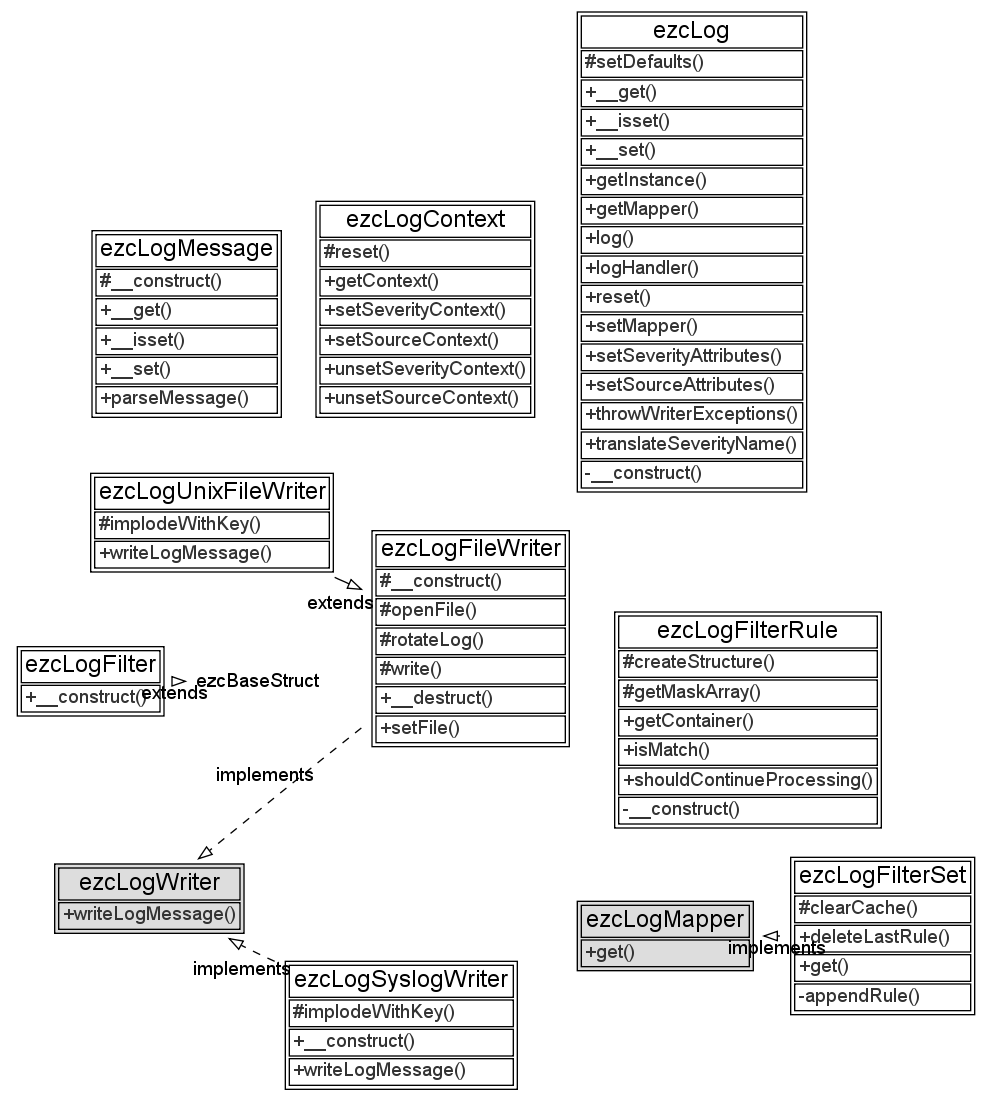
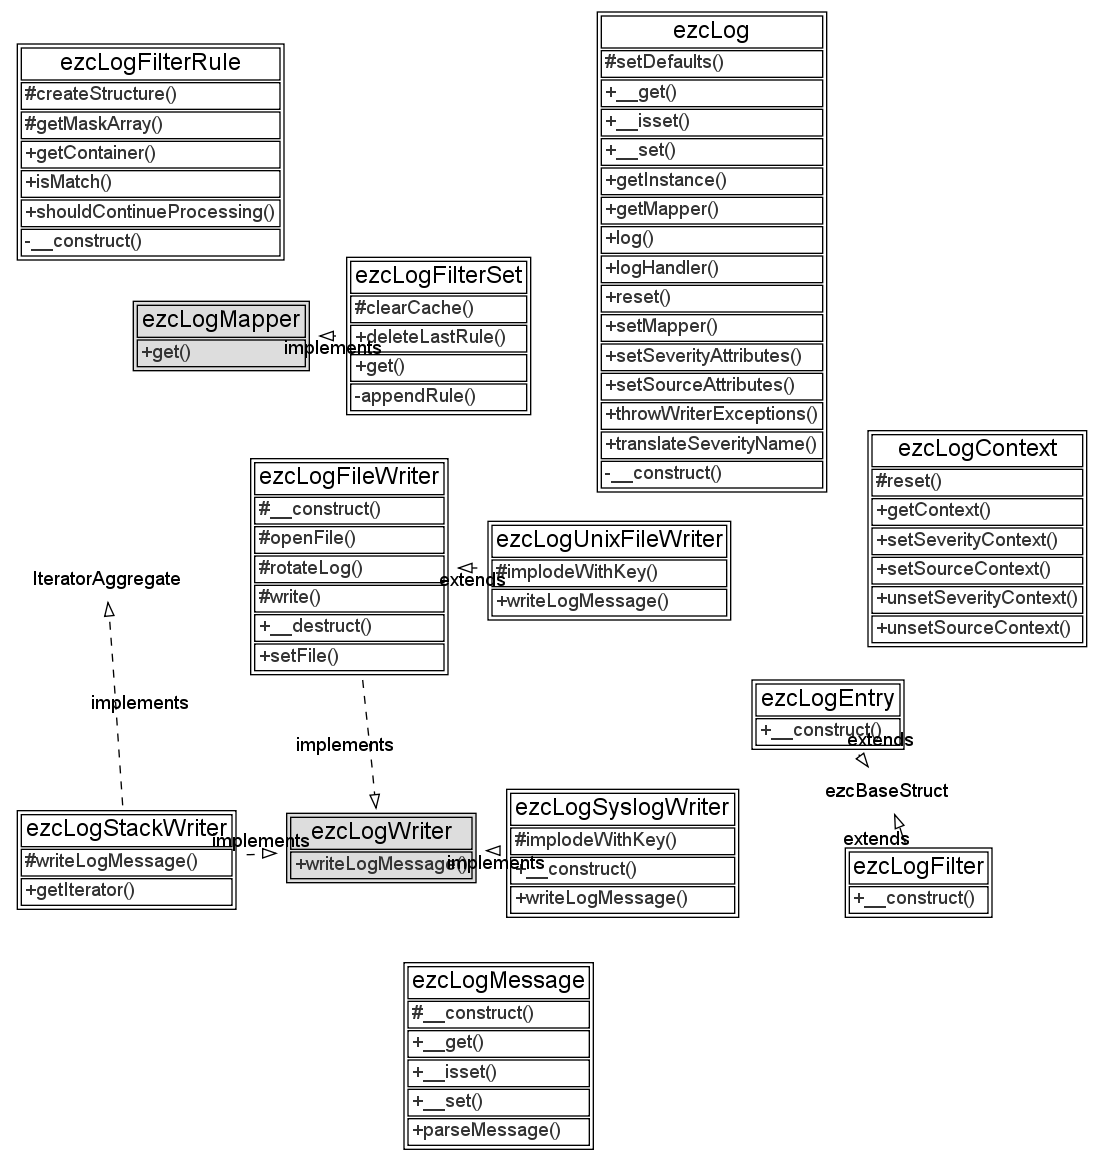
- Implemented feature #14104: Stack writer to store log messages in memory.   (Based on a patch by Thomas Koch)
git-svn-id: https://svn.apache.org/repos/asf/incubator/zetacomponents/trunk@977337 13f79535-47bb-0310-9956-ffa450edef68

Changed region(s): [[0.0, 0.0, 1.0, 1.0]]

diff --git a/EventLog/tests/writers/writer_stack_test.php b/EventLog/tests/writers/writer_stack_test.php
@@ -1,0 +1,88 @@
+<?php
+/**
+ * @copyright Copyright (C) 2005-2009 eZ systems as. All rights reserved.
+ * @license http://ez.no/licenses/new_bsd New BSD License
+ * @version //autogentag//
+ * @filesource
+ * @package EventLog
+ * @subpackage Tests
+ */
+
+/**
+ * @package EventLog
+ * @subpackage Tests
+ */
+class ezcLogStackWriterTest extends ezcTestCase
+{
+    protected $writer;
+
+    protected $messages = array( 
+        array(
+            'message' => 'Alien alert',
+            'severity' => 'critical',
+            'source' => 'UFO report',
+            'category' => 'fake warning',
+            'optional' => array( 1, 2, 3 )
+        ),
+        array(
+            'message' => 'Alien greeting',
+            'severity' => 'uncritical',
+            'source' => 'Alien News',
+            'category' => 'real warning',
+            'optional' => 'hi'
+        ),
+    );
+
+    protected function setUp()
+    {
+        $this->writer = new ezcLogStackWriter;
+    }
+
+    public function testWriteOneLogMessage()
+    {
+        $m = $this->messages[0];
+
+        $this->writer->writeLogMessage( $m['message'], $m['severity'], $m['source'], $m['category'], $m['optional']);
+
+        foreach ( $this->writer as $entry )
+        {
+            $this->assertEquals( $entry->message, $m['message'] );
+            $this->assertEquals( $entry->source, $m['source'] );
+            $this->assertEquals( $entry->severity, $m['severity'] );
+            $this->assertEquals( $entry->category, $m['category'] );
+            $this->assertEquals( $entry->optional, $m['optional'] );
+
+            return;
+        }
+        // should return in the foreach
+        $this->fail();
+    }
+
+    public function testWriteMultipleLogMessages()
+    {
+        foreach ( $this->messages as $m )
+        {
+            $this->writer->writeLogMessage( $m['message'], $m['severity'], $m['source'], $m['category'], $m['optional']);
+        }
+
+        $i = 0;
+        foreach ( $this->writer as $entry )
+        {
+            $m = $this->messages[$i];
+            ++$i;
+
+            $this->assertEquals( $entry->message, $m['message'] );
+            $this->assertEquals( $entry->source, $m['source'] );
+            $this->assertEquals( $entry->severity, $m['severity'] );
+            $this->assertEquals( $entry->category, $m['category'] );
+            $this->assertEquals( $entry->optional, $m['optional'] );
+        }
+        $this->assertEquals( count( $this->messages ), $i );
+    }
+
+    public static function suite()
+    {
+        return new PHPUnit_Framework_TestSuite(__CLASS__);
+    }
+}
+?>

diff --git a/EventLog/src/structs/log_entry.php b/EventLog/src/structs/log_entry.php
@@ -1,0 +1,106 @@
+<?php
+/**
+ * @copyright Copyright (C) 2005-2009 eZ systems as. All rights reserved.
+ * @license http://ez.no/licenses/new_bsd New BSD License
+ * @version //autogentag//
+ * @filesource
+ * @package EventLog
+ */
+
+/**
+ * File containing the ezcLogEntry class.
+ *
+ * The ezcLogEntry class provides a structure to represent a log entry with all
+ * data passed to ezcLog::log().
+ *
+ * This class is used for entries hold by the ezcLogStackWriter.
+ *
+ * @package EventLog
+ * @version //autogentag//
+ */
+class ezcLogEntry extends ezcBaseStruct
+{
+    /**
+     * The textual log message.
+     *
+     * @var string
+     */
+    public $message;
+
+    /**
+     * Severity of the log message.
+     *
+     * @var int
+     */
+    public $severity;
+
+    /**
+     * The source of the log message.
+     *
+     * @var string
+     */
+    public $source;
+
+    /**
+     * The category of the log message.
+     *
+     * @var string
+     */
+    public $category;
+
+    /**
+     * Optional informations
+     *
+     * @var array
+     */
+    public $optional;
+
+    /**
+     * The timestamp of the moment when this object was created
+     *
+     * @var int
+     */
+    public $timestamp;
+
+    /**
+     * Constructs a new ezcLogEntry.
+     *
+     * @param string $message
+     * @param int $severity
+     * @param string $source
+     * @param string $category
+     * @param array $optional
+     * @param int $timestamp
+     */
+    public function __construct( $message = '', $severity = 0, 
+        $source = '', $category = '', $optional = array(), $timestamp = null )
+    {
+        $this->message = $message;
+        $this->severity = $severity;
+        $this->source = $source;
+        $this->category = $category;
+        $this->optional = $optional;
+        $this->timestamp = $timestamp === null ? time() : $timestamp;
+    }
+
+    /**
+     * Returns a new instance of this class with the data specified by $array.
+     *
+     * $array contains all the data members of this class in the form:
+     * array('member_name'=>value).
+     *
+     * __set_state makes this class exportable with var_export.
+     * var_export() generates code, that calls this method when it
+     * is parsed with PHP.
+     *
+     * @param array(string=>mixed) $array
+     * @return ezcLogEntry
+     */
+    static public function __set_state( array $array )
+    {
+        return new ezcLogEntry( $array['message'], $array['severity'], 
+            $array['source'], $array['category'], $array['optional'], 
+            $array['timestamp'] );
+    }
+}
+?>

diff --git a/EventLog/src/writers/writer_stack.php b/EventLog/src/writers/writer_stack.php
@@ -1,0 +1,67 @@
+<?php
+/**
+ * File containing the ezcLogStackWriter class.
+ *
+ * @package EventLog
+ * @version //autogentag//
+ * @copyright Copyright (C) 2005-2009 eZ systems as. All rights reserved.
+ * @license http://ez.no/licenses/new_bsd New BSD License
+ */
+
+/**
+ * The ezcLogStackWriter class stores all received log messages in memory.
+ *
+ * The main purpose is to get all received log message at once, for example to
+ * output them in the webpage.
+ *
+ * @package EventLog
+ * @version //autogentag//
+ */
+class ezcLogStackWriter implements ezcLogWriter, IteratorAggregate
+{
+    /**
+     * Stores all entries received by this writer.
+     * 
+     * @var array(int=>ezcLogEntry)
+     */
+    protected $entries = array();
+
+    /**
+     * Writes the message $message to the log.
+     *
+     * The writer can use the severity, source, and category to filter the
+     * incoming messages and determine the location where the messages should
+     * be written.
+     *
+     * The array $optional contains extra information that can be added to the
+     * log. For example: line numbers, file names, usernames, etc.
+     *
+     * @throws ezcLogWriterException
+     *         If the log writer was unable to write the log message
+     *
+     * @param string $message
+     * @param int $severity
+     *        ezcLog::DEBUG, ezcLog::SUCCESS_AUDIT, ezcLog::FAILED_AUDIT,
+     *        ezcLog::INFO, ezcLog::NOTICE, ezcLog::WARNING, ezcLog::ERROR or
+     *        ezcLog::FATAL.
+     * @param string $source
+     * @param string $category
+     * @param array(string=>string) $optional
+     */
+    public function writeLogMessage( $message, $severity, $source, $category, $optional = array() )
+    {
+        $this->entries[] = new ezcLogEntry( $message, $severity, $source, $category, $optional );
+    }
+
+    /**
+     * Implements IteratorAggreagate, returns iterator for all entries.
+     *
+     * @see entries
+     * @return ArrayObject
+     */
+    public function getIterator() 
+    {
+        return new ArrayObject( $this->entries );
+    }
+}
+?>

diff --git a/EventLog/src/log_autoload.php b/EventLog/src/log_autoload.php
@@ -2,7 +2,7 @@
 /**
  * Autoloader definition for the EventLog component.
  *
- * @copyright Copyright (C) 2005-2009 eZ Systems AS. All rights reserved.
+ * @copyright Copyright (C) 2005-2009 eZ systems as. All rights reserved.
  * @license http://ez.no/licenses/new_bsd New BSD License
  * @version //autogentag//
  * @filesource
@@ -17,10 +17,12 @@ return array(
     'ezcLogMapper'                 => 'EventLog/interfaces/mapper.php',
     'ezcLog'                       => 'EventLog/log.php',
     'ezcLogContext'                => 'EventLog/context.php',
+    'ezcLogEntry'                  => 'EventLog/structs/log_entry.php',
     'ezcLogFilter'                 => 'EventLog/structs/log_filter.php',
     'ezcLogFilterRule'             => 'EventLog/mapper/filter_rule.php',
     'ezcLogFilterSet'              => 'EventLog/mapper/filterset.php',
     'ezcLogMessage'                => 'EventLog/log_message.php',
+    'ezcLogStackWriter'            => 'EventLog/writers/writer_stack.php',
     'ezcLogSyslogWriter'           => 'EventLog/writers/writer_syslog.php',
     'ezcLogUnixFileWriter'         => 'EventLog/writers/writer_unix_file.php',
 );

diff --git a/EventLog/tests/suite.php b/EventLog/tests/suite.php
@@ -16,6 +16,7 @@ require_once( "context_test.php");
 require_once( "writers/writer_file_test.php");
 require_once( "writers/writer_unix_file_test.php");
 require_once( "writers/writer_syslog_test.php");
+require_once( "writers/writer_stack_test.php");
 
 /**
  * @package EventLog
@@ -34,6 +35,7 @@ class ezcEventLogSuite extends PHPUnit_Framework_TestSuite
         $this->addTest( ezcLogFileWriterTest::suite() );
         $this->addTest( ezcLogUnixFileWriterTest::suite() );
         $this->addTest( ezcLogSyslogWriterTest::suite() );
+        $this->addTest( ezcLogStackWriterTest::suite() );
         $this->addTest( ezcLogMessageTest::suite() );
         $this->addTest( ezcLogTest::suite() );
     }
